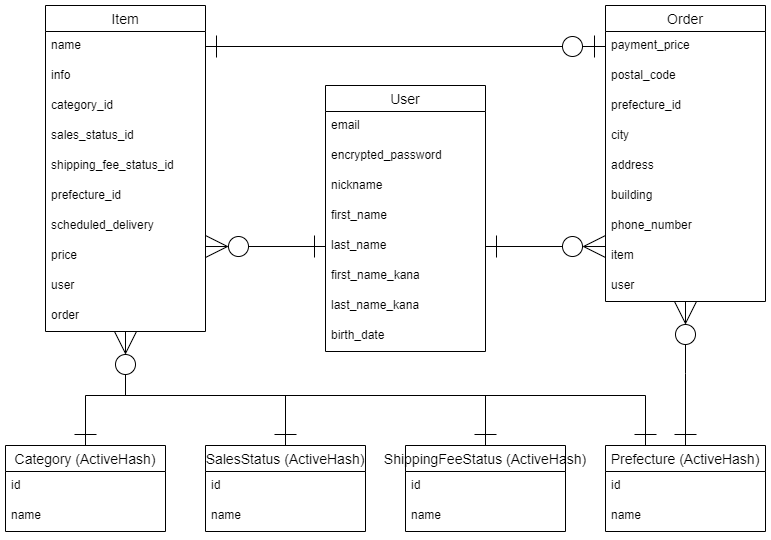
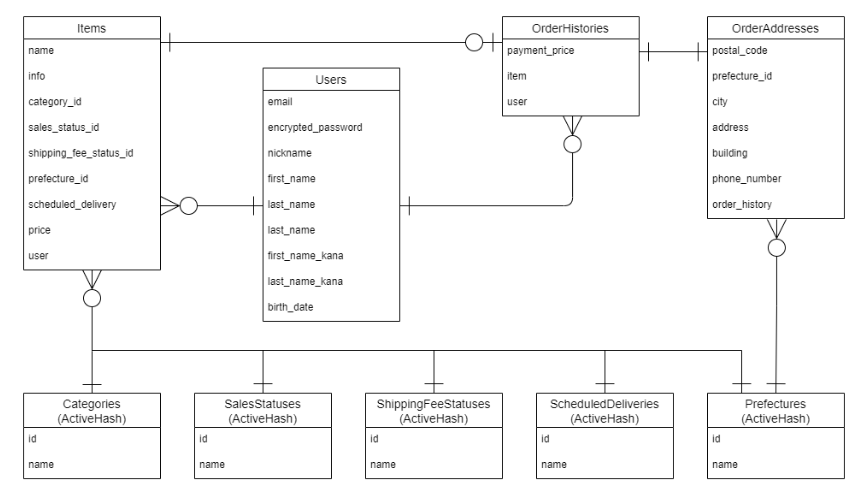
データベース設計#3 指摘修正1回目

diff --git a/README.md b/README.md
@@ -2,7 +2,7 @@
 ![タスク着手順序](public/タスク着手順序.png)
 
 # データベース設計
-## Item
+## Items
 
 | Column | Type | Options |
 |------|----|-------|
@@ -12,10 +12,9 @@
 | sales_status_id | integer | null: false |
 | shipping_fee_status_id | integer | null: false |
 | prefecture_id | integer | null: false |
-| scheduled_delivery | integer | null: false |
+| scheduled_delivery_id | integer | null: false |
 | price | integer | null: false |
 | user | references | null: false, foreign_key: true |
-| order | references | null: false, foreign_key: true |
 
 ※imageはActiveStorageで実装するため含まない
 
@@ -25,10 +24,11 @@ belongs_to :category
 belongs_to :sales_status  
 belongs_to :shipping_fee_status  
 belongs_to :prefecture  
+belongs_to :scheduled_delivery  
 belongs_to :user  
-has_one :order  
+has_one :order_histories  
 
-## User
+## Users
 
 |Column|Type|Options|
 |------|----|-------|
@@ -42,29 +42,40 @@ has_one :order
 | birth_date | date | null: false |
 
 ### Association
-has_many :items
+has_many :items  
+has_many :order_histories  
 
-## Order
+## OrderHistories
 
 |Column|Type|Options|
 |------|----|-------|
 | payment_price | integer | null: false |
+| item | references | null: false, foreign_key: true |
+| user | references | null: false, foreign_key: true |
+
+### Association
+belongs_to :item  
+belongs_to :user  
+has_one :order_address  
+
+## OrderAddresses
+
+|Column|Type|Options|
+|------|----|-------|
 | postal_code | string | null: false |
 | prefecture_id | integer | null: false |
 | city | string | null: false |
 | address | string | null: false |
 | building | string |  |
 | phone_number | string | null: false |
-| item | references | null: false, foreign_key: true |
-| user | references | null: false, foreign_key: true |
+| order_history | references | null: false, foreign_key: true |
 
 ### Association
 extend ActiveHash::Associations::ActiveRecordExtensions  
 belongs_to :prefecture  
-belongs_to :item  
-belongs_to :user  
+belongs_to :order_history  
 
-## Category (ActiveHash)
+## Categories (ActiveHash)
 |Column|Type|
 |------|----|
 | id | integer |
@@ -74,7 +85,7 @@ belongs_to :user
 include ActiveHash::Associations  
 has_many :items
 
-## SalesStatus (ActiveHash)
+## SalesStatuses (ActiveHash)
 |Column|Type|
 |------|----|
 | id | integer |
@@ -84,7 +95,7 @@ has_many :items
 include ActiveHash::Associations  
 has_many :items  
 
-## ShippingFeeStatus (ActiveHash)
+## ShippingFeeStatuses (ActiveHash)
 |Column|Type|
 |------|----|
 | id | integer |
@@ -94,7 +105,7 @@ has_many :items
 include ActiveHash::Associations  
 has_many :items  
 
-## Prefecture (ActiveHash)
+## ScheduledDeliveries (ActiveHash)
 |Column|Type|
 |------|----|
 | id | integer |
@@ -103,7 +114,18 @@ has_many :items
 ### Association
 include ActiveHash::Associations  
 has_many :items  
-has_many :orders
+
+## Prefectures (ActiveHash)
+|Column|Type|
+|------|----|
+| id | integer |
+| name | string |
+
+### Association
+include ActiveHash::Associations  
+has_many :items  
+has_many :order_addresses
 
 # ER図
+
 ![ER図](public/ER図.png)
